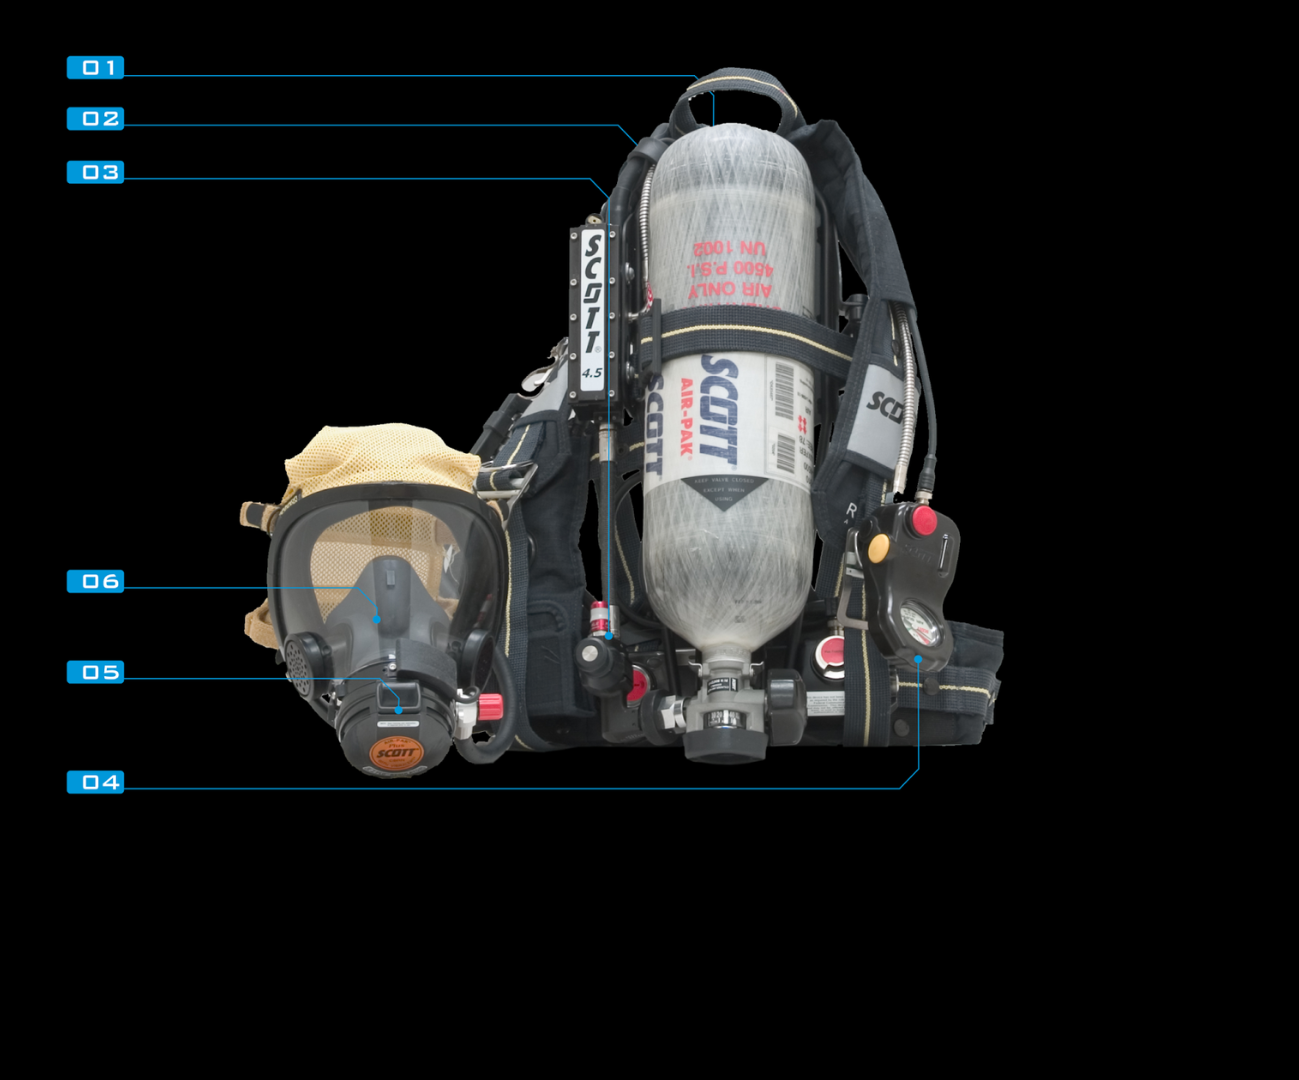
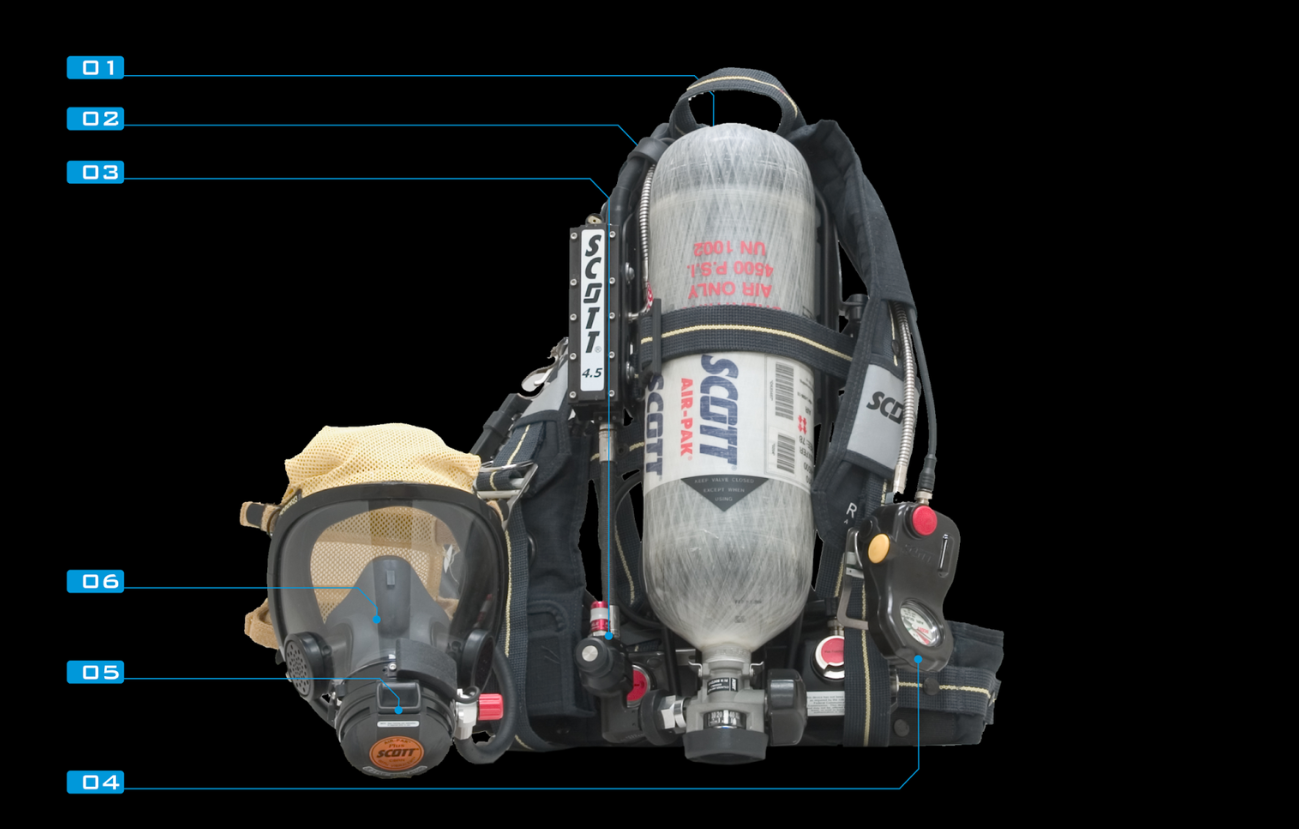
Update image path for ERA training service

diff --git a/src/app/pages/training/page.tsx b/src/app/pages/training/page.tsx
@@ -44,7 +44,7 @@ const servicios = [
     id: 'era',
     title: 'Usos de ERA',
     description: '(Equipo de Respiración Autónomo): Esta capacitación es la base para poder ingresar al mundo de los espacios confinados, con las mejores técnicas para un buen uso y mantenimiento de los mismos. ',
-    image: '/placeholder.png',
+    image: '/paera.png',
     details: [
       'Modalidad: Presencial',
       'Duración: 3 Hs.',
